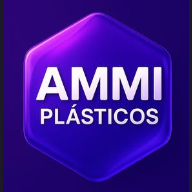
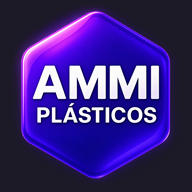
Melhora a nitidez do ícone da PWA

diff --git a/app.js b/app.js
@@ -1811,6 +1811,9 @@ function executarTestes() {
   teste('Interface — PWA declara manifesto para instalação', () => {
     igual(Boolean(document.querySelector('link[rel="manifest"][href="./manifest.webmanifest"]')), true);
   });
+  teste('Interface — PWA declara ícone para instalação', () => {
+    igual(Boolean(document.querySelector('link[rel="apple-touch-icon"][href="ammi-logo.png"]')), true);
+  });
   teste('Interface — valor e ícones do Empréstimo seguem a mesma linha', () => {
     const fixture = document.createElement('div');
     fixture.className = 'emprestimo-grupo';

diff --git a/REGRAS.md b/REGRAS.md
@@ -83,7 +83,8 @@ O sistema pode ser instalado pelo Chrome como aplicativo. A instalação usa o
 mesmo endereço e dados da versão web; a interface tenta sempre buscar a versão
 publicada mais recente e usa o cache local apenas quando não há conexão. Login
 e dados financeiros continuam dependendo do Supabase. O modo instalado não
-cria uma base de dados local nem permite registrar alterações offline.
+cria uma base de dados local nem permite registrar alterações offline. Os
+ícones instaláveis usam versões quadradas de 192 e 512 px do logo da Ammi.
 
 A chave usada no frontend é a pública (*anon* / *publishable*) e pode ficar
 exposta no código — a proteção real vem das políticas de RLS, que exigem
